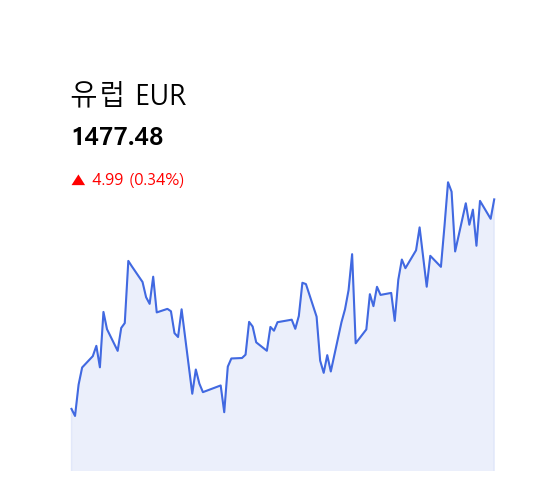
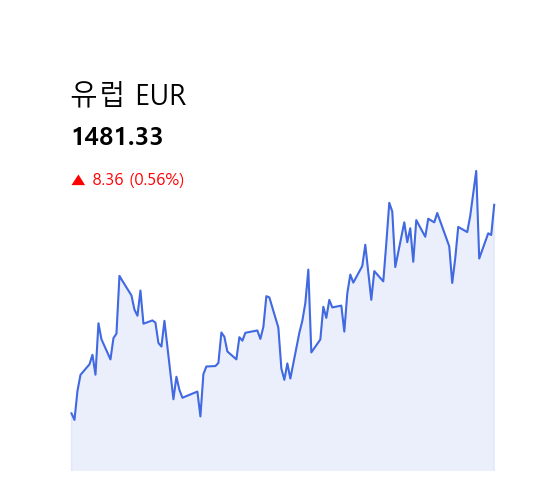
Update ER-add graph, delete all console

diff --git a/final_pjt_front/src/stores/project.js b/final_pjt_front/src/stores/project.js
@@ -132,34 +132,6 @@ export const useProjectStore = defineStore('project', () => {
     });
   };
 
-  // 상품상세
-  // const productAll = ref([])
-  // const productDetail=ref(null)
-  // const detailcd=ref("")
-  // const getProduct = function (fin_cd) {
-  //   axios({
-  //     method: 'get',
-  //     url:'http://127.0.0.1:8000/products/products-all/'
-  //   }).then((res) => {
-  //     productAll.value=res.data
-  //     let dors="deposit_product"
-  //     const productDetailTMP = productAll.value.find((el) => {
-  //       if(el.deposit_product!=-1 && el.deposit_product.fin_prdt_cd === fin_cd){
-  //         return el
-  //       }
-  //       else if(el.saving_product!=-1 && el.saving_product.fin_prdt_cd === fin_cd){
-  //         dors="saving_product"
-  //         return el
-  //       }
-
-  //     })
-  //     productDetail.value={
-  //       product:productDetailTMP[dors],
-  //       options:productDetailTMP.options
-  //     }
-  //     console.log(productDetail.value);
-  //     })}
-
   //지도
   const koreanBanks = [
     "국민은행",
@@ -281,7 +253,6 @@ export const useProjectStore = defineStore('project', () => {
         url:`http://127.0.0.1:8000/articles/${id}/`
       }).then((res) => {
         articleDetail.value=res.data
-        console.log(articleDetail.value);
         })}
 
     // 뉴스 관련

diff --git a/final_pjt_front/src/views/ERView.vue b/final_pjt_front/src/views/ERView.vue
@@ -32,6 +32,16 @@
           <span>{{fromCurrency}} {{fromUnit}}</span>
         </div>
       </div>
+      <div>
+        <div>
+          <img src="@/assets/erg/USD.png" width="400" class="graph-image" />
+          <img src="@/assets/erg/JPY.png" width="400" class="graph-image" />
+        </div>
+        <div>
+          <img src="@/assets/erg/EUR.png" width="400" class="graph-image" />
+          <img src="@/assets/erg/CNY.png" width="400" class="graph-image" />
+        </div>
+      </div>
     </div>
   </template>
   
@@ -93,7 +103,6 @@
   };
 
   const goExchange=function(){
-    console.log(parseFloat("1,123.12"));
     if(toRate.value==='없음'){
       alert('환전할 국가를 선택해주세요');
       return;
@@ -144,7 +153,7 @@
     margin: auto;
     padding: 20px;
     text-align: center;
-    height: 800px;
+    height: 1200px;
   }
   
   h1 {
@@ -217,6 +226,16 @@
     font-size: 2rem;
     font-weight: 600;
     width: 950px;
+  }
+  .graph-image {
+    border-radius: 5px;
+    border:1px solid #e9ecef;
+    margin: 10px;
+    box-shadow: 0 4px 8px rgba(0, 0, 0, 0.1);
+  }
+  .graph-image:hover {
+    transform: scale(1.05);
+    transition: transform 0.5s;
   }
   </style>
   

diff --git a/final_pjt_front/src/views/product/ProductDetailView.vue b/final_pjt_front/src/views/product/ProductDetailView.vue
@@ -133,19 +133,21 @@ onMounted(() => {
       options: productDetailTMP.options,
     };
   });
-  store.getSubPrdtDep();
-  store.getSubPrdtSav();
-  store.sub_prdt_dep.forEach((el) => {
-    if (el.deposit_option.fin_prdt_cd === productId.value) {
-      isSub.value = true;
-    }
-  });
-
-  store.sub_prdt_sav.forEach((el) => {
-    if (el.saving_option.fin_prdt_cd === productId.value) {
-      isSub.value = true;
-    }
-  });
+  if(store.isLogin){
+    store.getSubPrdtDep();
+    store.getSubPrdtSav();
+    store.sub_prdt_dep.forEach((el) => {
+      if (el.deposit_option.fin_prdt_cd === productId.value) {
+        isSub.value = true;
+      }
+    });
+  
+    store.sub_prdt_sav.forEach((el) => {
+      if (el.saving_option.fin_prdt_cd === productId.value) {
+        isSub.value = true;
+      }
+    });
+  }
 });
 
 const openModal = (option) => {

diff --git a/final_pjt_front/src/views/profileview/SubscriptionProductView.vue b/final_pjt_front/src/views/profileview/SubscriptionProductView.vue
@@ -72,10 +72,8 @@ const renderChart = () => {
         label: '금리',
         data: selectedItems.value.map((item) => {
           if(isDeposit.value){
-            console.log(11);
             return item.deposit_option.intr_rate2
           }else{
-            console.log(22);
             return item.saving_option.intr_rate2
           }
         }),
@@ -136,10 +134,8 @@ const renderChart = () => {
         label: '금리',
         data: selectedItems.value.map((item) => {
           if(isDeposit.value){
-            console.log(11);
             return item.deposit_option.intr_rate2
           }else{
-            console.log(22);
             return item.saving_option.intr_rate2
           }
         }),

diff --git a/final_pjt_front/src/views/SignUpView.vue b/final_pjt_front/src/views/SignUpView.vue
@@ -94,10 +94,6 @@
   const salary = ref('');
   const asset = ref('');
   const desired_asset = ref('');
-  
-  const asd=function(){
-    console.log(main_bank.value);
-  }
 
   const submitted = ref(false);
   
@@ -131,11 +127,9 @@
                 desired_asset: parseInt(desired_asset.value)
             }
         }).then((response) => {
-            console.log(response);
             alert('회원가입이 완료되었습니다.');
             router.push({ name: 'login' });
         }).catch((error) => {
-            console.error(error);
             alert('회원정보를 올바르게 입력해주세요.');
         });
 

diff --git a/final_pjt_front/src/views/profileview/RecommendProductView.vue b/final_pjt_front/src/views/profileview/RecommendProductView.vue
@@ -67,11 +67,9 @@ const isFlipped = ref(false);
 const selectProduct = (product) => {
   selectedProduct.value = product;
   imgUrl.value = `/assets/bankimg/${product.product.kor_co_nm}.png`
-  console.log(imgUrl.value);
 };
 
 const goDetail = (option) => {
-  console.log(option);
   router.push({ name: 'productdetail', params: { fin_prdt_cd: option.fin_prdt_cd } });
 };
 

diff --git a/final_pjt_front/src/views/MapView.vue b/final_pjt_front/src/views/MapView.vue
@@ -107,8 +107,6 @@ const searchBtnClicked = function () {
         return el;
       }
     });
-    console.log(resultLocation);
-    console.log(resultLocation.latitude, resultLocation.longitude);
     const map = setLocation(resultLocation.latitude, resultLocation.longitude);
 
     infowindow = new kakao.maps.InfoWindow({ zIndex: 1 });

diff --git a/final_pjt_front/src/router/index.js b/final_pjt_front/src/router/index.js
@@ -94,9 +94,7 @@ const router = createRouter({
 
 router.beforeEach((to, from, next) => {
   const store = useProjectStore()
-  console.log('로그인 여부', store.isLogin);
-  console.log(store.token);
-  console.log(store.userInfo);
+
   next()
 })
 

diff --git a/final_pjt_front/src/views/LoginView.vue b/final_pjt_front/src/views/LoginView.vue
@@ -68,7 +68,6 @@
             asset: res.data.asset,
             desired_asset: res.data.desired_asset,
           }
-          console.log('로그인 성공!');
           router.push('/');
         })
         .catch((err) => {
